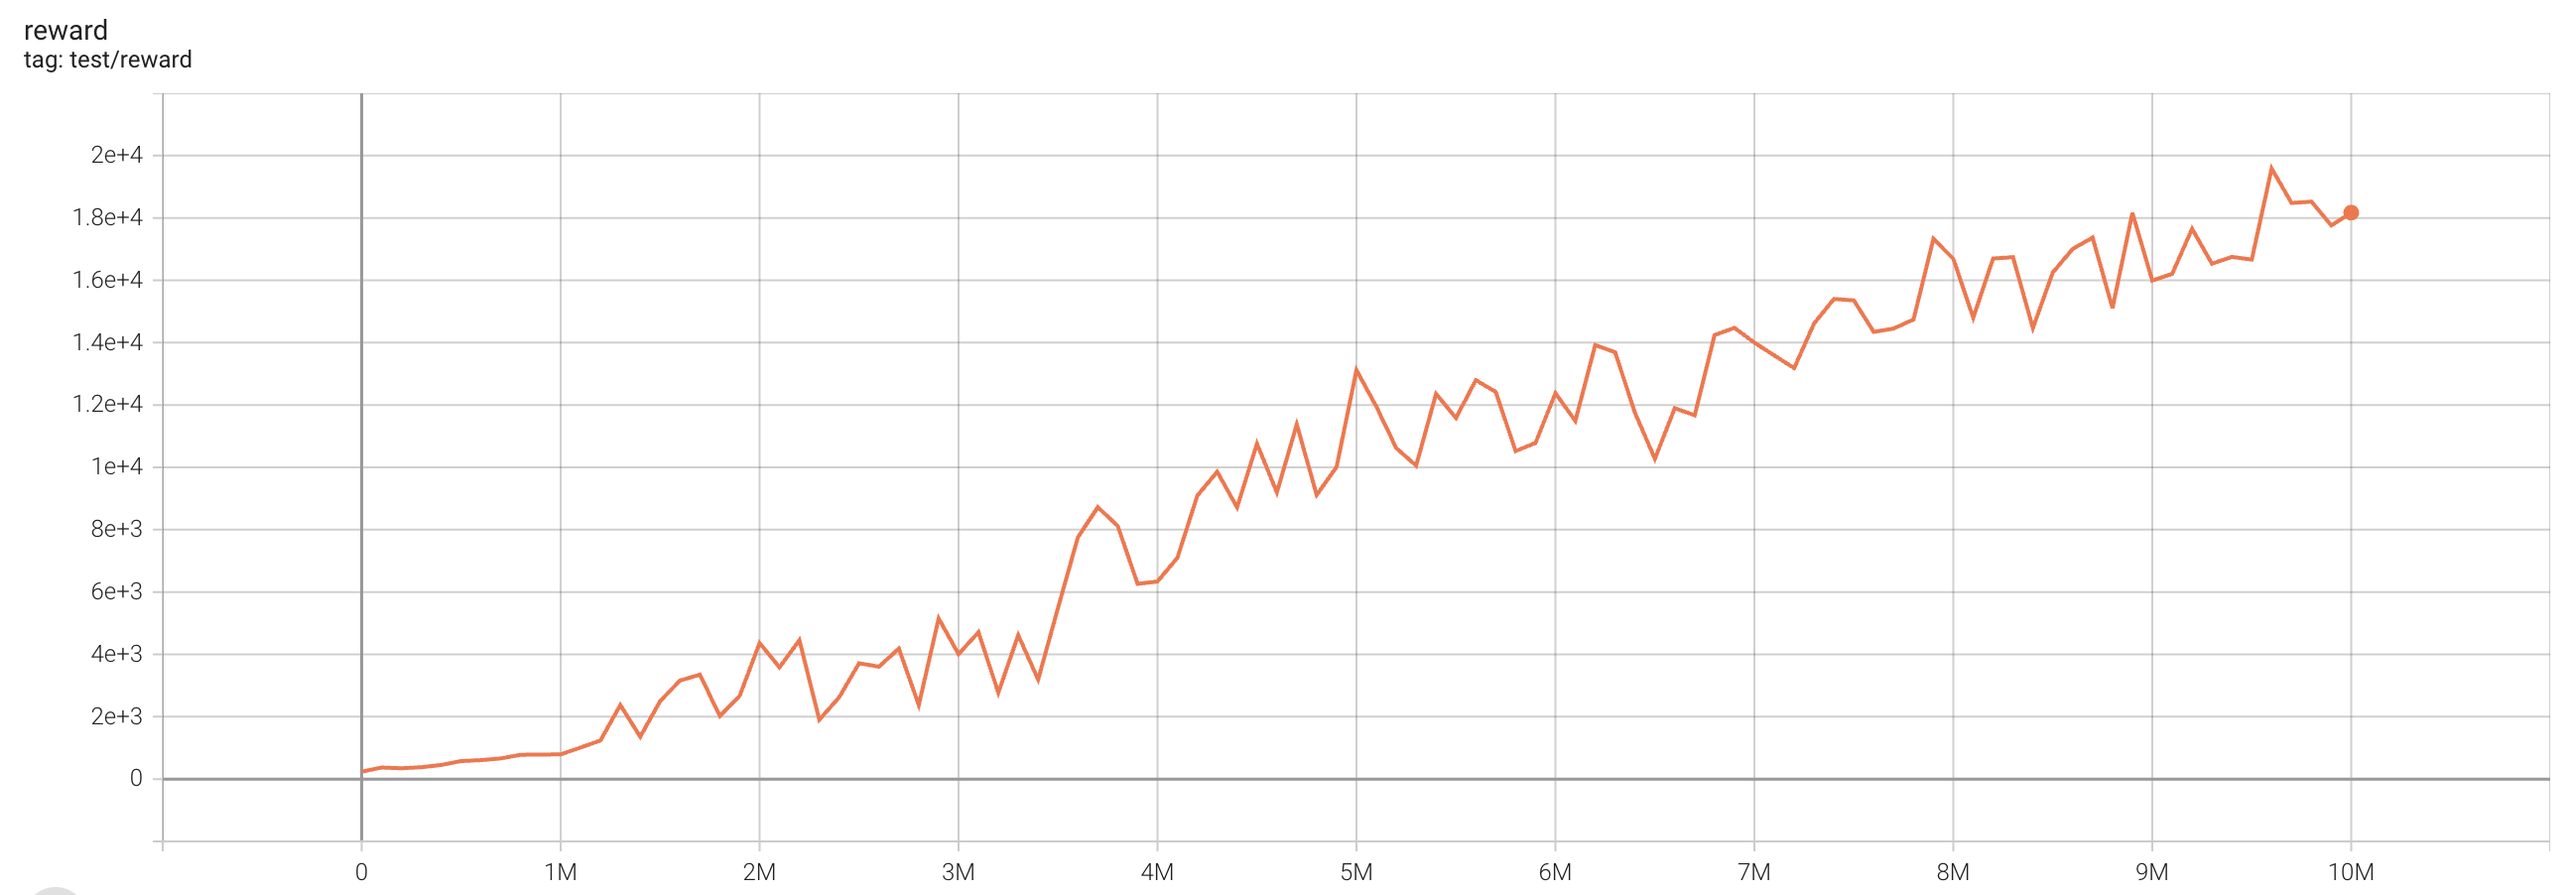
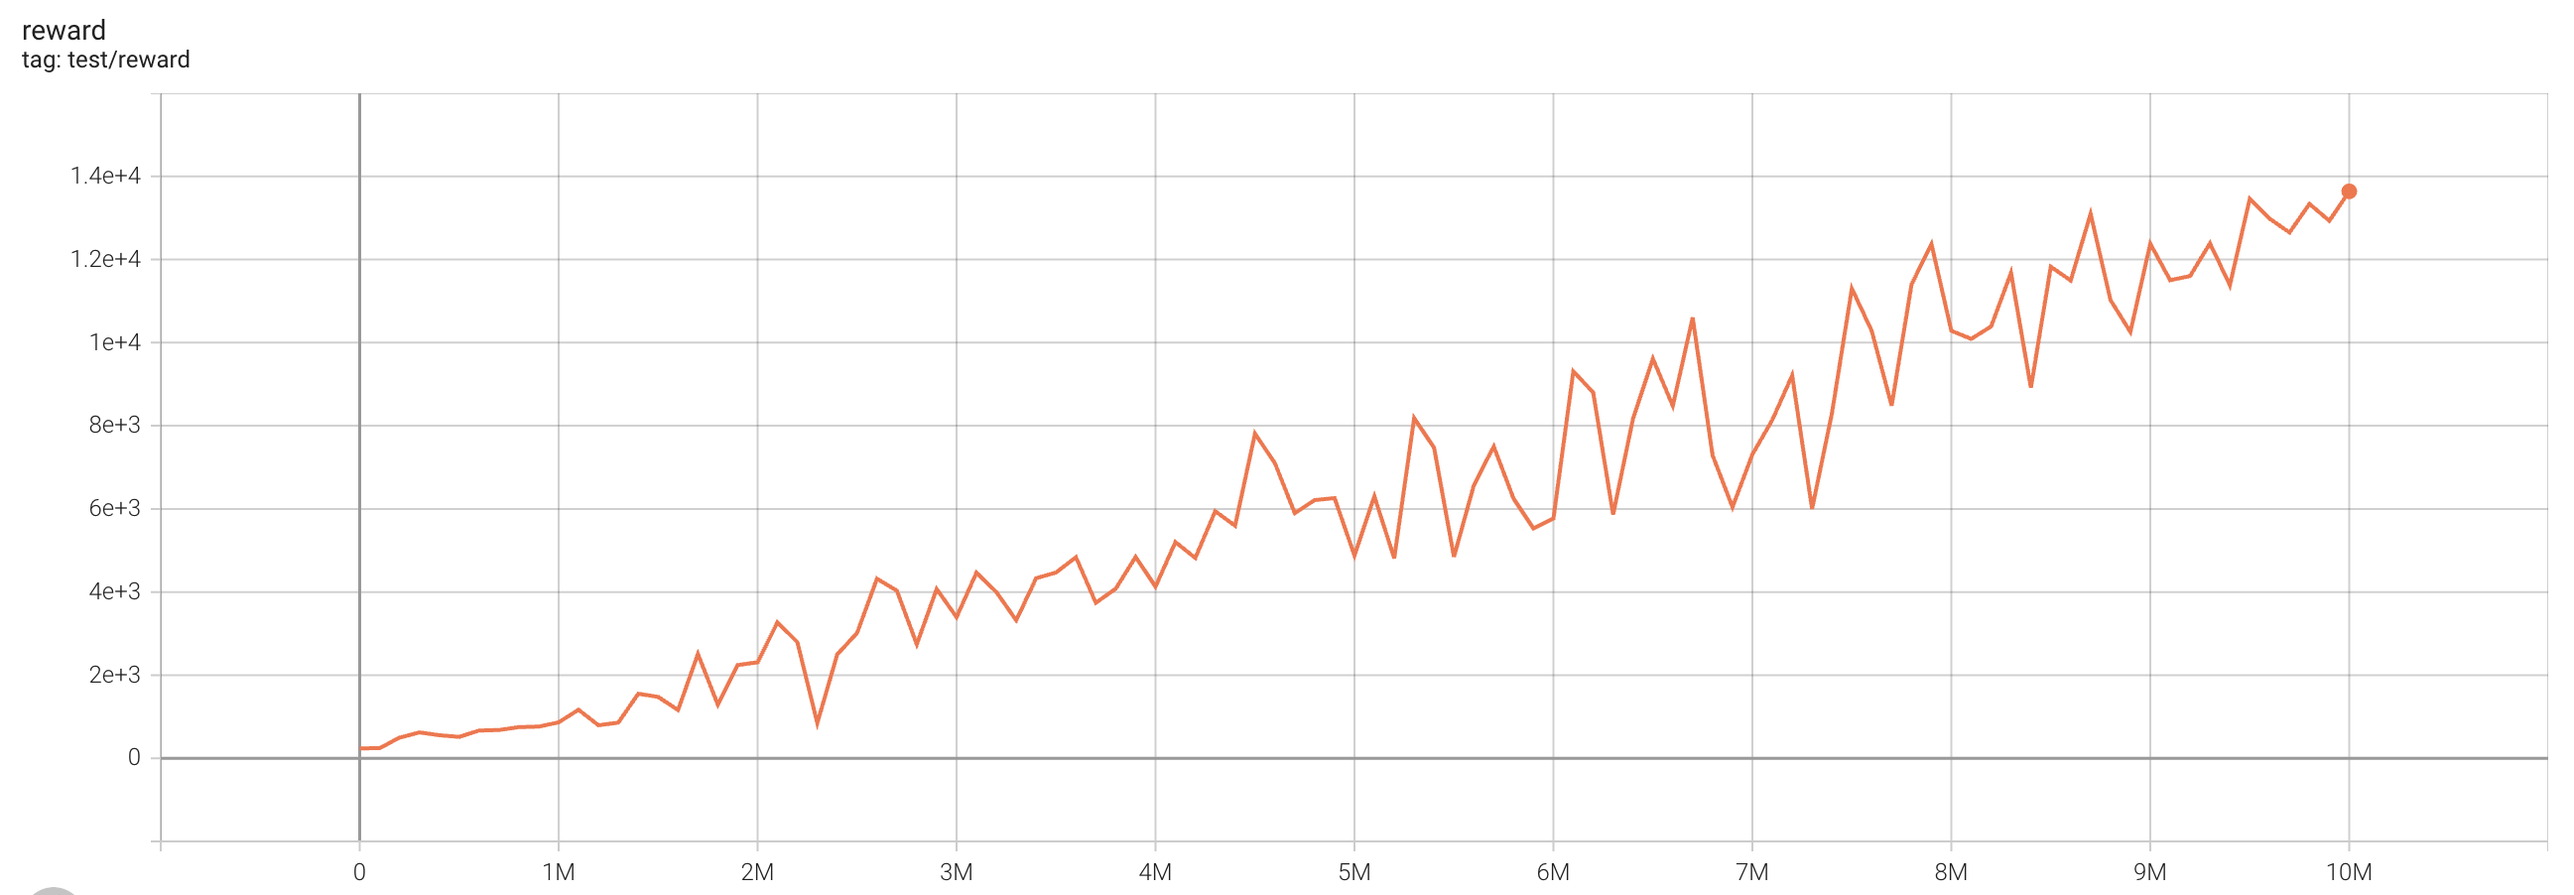
update atari ppo slots

diff --git a/examples/atari/atari_ppo.py b/examples/atari/atari_ppo.py
@@ -24,7 +24,7 @@ def get_args():
     parser.add_argument('--seed', type=int, default=4213)
     parser.add_argument('--scale-obs', type=int, default=0)
     parser.add_argument('--buffer-size', type=int, default=100000)
-    parser.add_argument('--lr', type=float, default=1e-4)
+    parser.add_argument('--lr', type=float, default=5e-5)
     parser.add_argument('--gamma', type=float, default=0.99)
     parser.add_argument('--epoch', type=int, default=100)
     parser.add_argument('--step-per-epoch', type=int, default=100000)

diff --git a/examples/atari/README.md b/examples/atari/README.md
@@ -102,10 +102,10 @@ One epoch here is equal to 100,000 env step, 100 epochs stand for 10M.
 
 | task                        | best reward | reward curve                          | parameters                                                   |
 | --------------------------- | ----------- | ------------------------------------- | ------------------------------------------------------------ |
-| PongNoFrameskip-v4          | 20        | ![](results/ppo/Pong_rew.png)         | `python3 atari_ppo.py --task "PongNoFrameskip-v4"` |
-| BreakoutNoFrameskip-v4      | 442.1        | ![](results/ppo/Breakout_rew.png)     | `python3 atari_ppo.py --task "BreakoutNoFrameskip-v4"` |
-| EnduroNoFrameskip-v4        | 1386.4       | ![](results/ppo/Enduro_rew.png)       | `python3 atari_ppo.py --task "EnduroNoFrameskip-v4"`  |
-| QbertNoFrameskip-v4         | 19585      | ![](results/ppo/Qbert_rew.png)        | `python3 atari_ppo.py --task "QbertNoFrameskip-v4"`  |
-| MsPacmanNoFrameskip-v4      | 2319       | ![](results/ppo/MsPacman_rew.png)     | `python3 atari_ppo.py --task "MsPacmanNoFrameskip-v4"`  |
-| SeaquestNoFrameskip-v4      | 1764       | ![](results/ppo/Seaquest_rew.png)     | `python3 atari_ppo.py --task "SeaquestNoFrameskip-v4"`  |
-| SpaceInvadersNoFrameskip-v4 | 1184       | ![](results/ppo/SpaceInvaders_rew.png) | `python3 atari_ppo.py --task "SpaceInvadersNoFrameskip-v4"`  |
+| PongNoFrameskip-v4          | 20.1        | ![](results/ppo/Pong_rew.png)         | `python3 atari_ppo.py --task "PongNoFrameskip-v4"` |
+| BreakoutNoFrameskip-v4      | 438.5        | ![](results/ppo/Breakout_rew.png)     | `python3 atari_ppo.py --task "BreakoutNoFrameskip-v4"` |
+| EnduroNoFrameskip-v4        | 1304.8       | ![](results/ppo/Enduro_rew.png)       | `python3 atari_ppo.py --task "EnduroNoFrameskip-v4"`  |
+| QbertNoFrameskip-v4         | 13640      | ![](results/ppo/Qbert_rew.png)        | `python3 atari_ppo.py --task "QbertNoFrameskip-v4"`  |
+| MsPacmanNoFrameskip-v4      | 1930       | ![](results/ppo/MsPacman_rew.png)     | `python3 atari_ppo.py --task "MsPacmanNoFrameskip-v4"`  |
+| SeaquestNoFrameskip-v4      | 904      | ![](results/ppo/Seaquest_rew.png)     | `python3 atari_ppo.py --task "SeaquestNoFrameskip-v4" --lr 2.5e-5`  |
+| SpaceInvadersNoFrameskip-v4 | 843       | ![](results/ppo/SpaceInvaders_rew.png) | `python3 atari_ppo.py --task "SpaceInvadersNoFrameskip-v4"`  |
